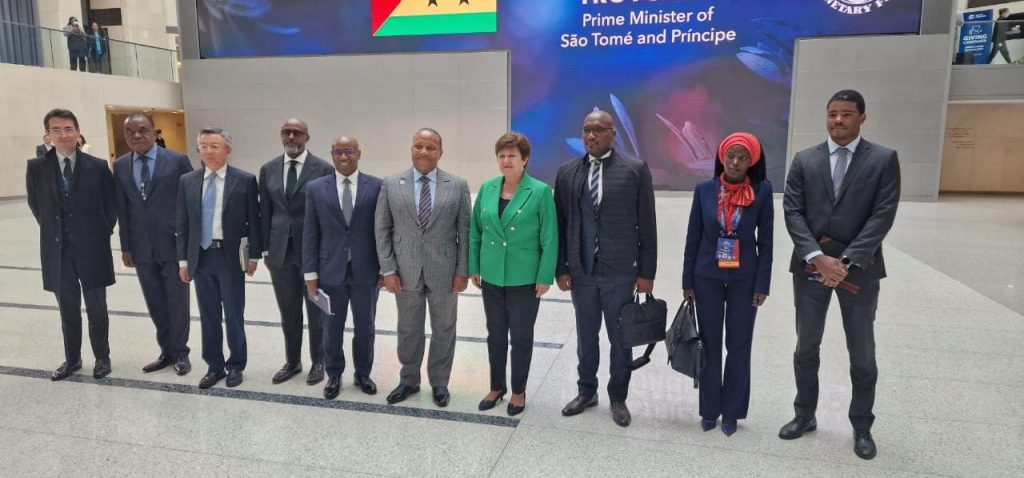
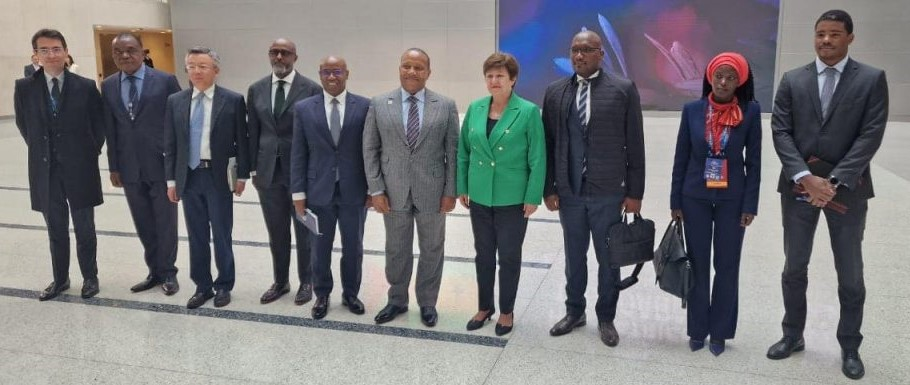
slide1

diff --git a/index.html b/index.html
@@ -68,11 +68,13 @@
             <div class="row">
                
                 <div class="col-sm-8 m-auto capa">
+                
+                    
                     <div id="carousel-controles" class="carousel slide" data-ride="carousel">
                         
                         <div class="carousel-inner">
                             <div class="carousel-item active">
-                                <img src="imagens/cimeira01.jpg" alt="img-fluid">
+                                <img src="imagens/cimeira001.jpg" alt="img-fluid">
                                 <div class="carousel-caption">
                                     <h3>Primeiro-Ministro representa São Tomé e Príncipe na Cimeira – EUA/África</h3>
                                 </div>
@@ -97,7 +99,7 @@
                         <a href="#carousel-controles" class="carousel-control-next" data-slide="next">
                             <span class="carousel-control-next-icon"></span>
                         </a>
-                    </div>
+                    </div> 
                     <!--
                     <a href="">
                     <img src="imagens/cimeira01.jpg" alt="imagem 1">
@@ -152,8 +154,8 @@
                         <label for="radio3" class="manual-btn"></label>
                         <label for="radio4" class="manual-btn"></label>
                     </div>
-                </div>
-            -->
+                </div> -->
+            
 
 
                 </div>

diff --git a/css/estilo.css b/css/estilo.css
@@ -1,12 +1,14 @@
 /*layout
 _____________________________*/
 
-html, body, #home {
-    height: 100%;   
-}
-#home{
+html, body, #home  {
     
-}
+    height: 100%;
+      }
+      #home {
+        
+      }
+
 
 body {
     background: url(../imagens/fundo.jpg);
@@ -30,12 +32,12 @@ nav.navbar-tranparente {
     color: rgba(255, 255, 255, .5);
     border-color: rgba(255, 255, 255, 0.5);
 }
-/*
+
 .capa {
     text-align: center;
-    border: 1px solid red; 
-    margin-top: -110px;
-    height: auto;
-}*/
+     padding-top: 15%;
+    
+
+}
 
 
